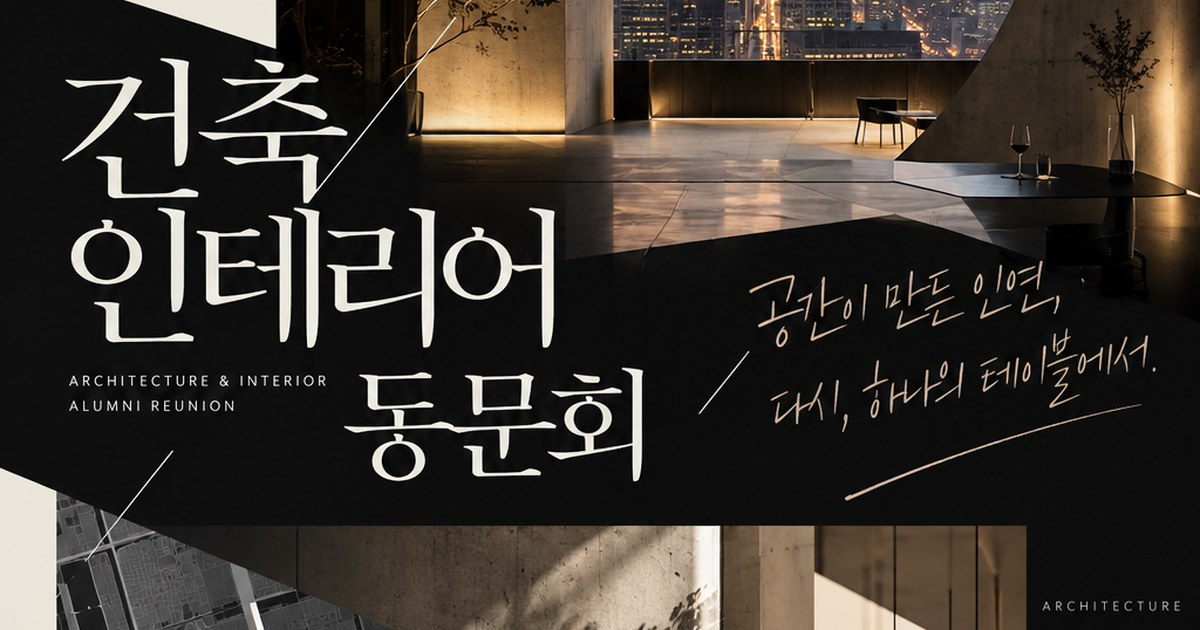
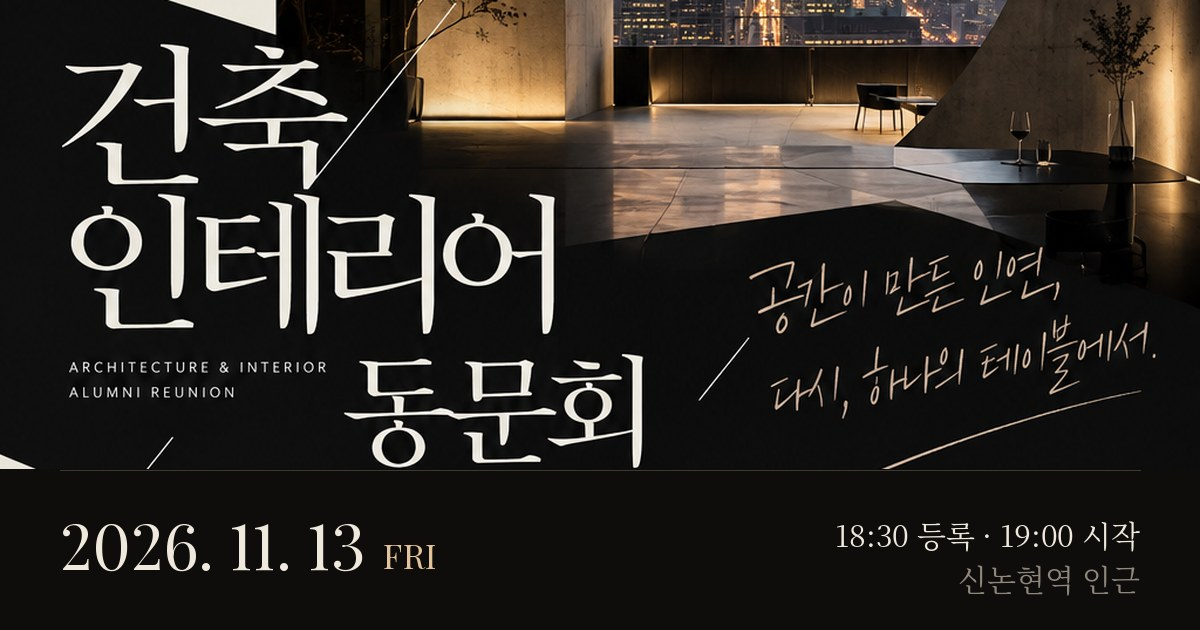
공유 미리보기를 2026.11.13(금) 기준으로 갱신 — 날짜 넣은 썸네일, 새 공유 주소
Claude-Session: https://claude.ai/code/session_01E4Fc9KigC2AJrgYdfE3XVL

diff --git a/reunion/index.html b/reunion/index.html
@@ -7,10 +7,13 @@
 <meta name="description" content="다시, 공간에서 연결되는 우리. 건축 인테리어 동문회 — 11월 13일(금) 18:30, 신논현역 인근.">
 <meta name="theme-color" content="#0e0d0b">
 <meta property="og:type" content="website">
-<meta property="og:title" content="건축 인테리어 동문회 · 11.13 FRI">
-<meta property="og:description" content="공간이 만든 인연, 다시, 하나의 테이블에서. 18:30 등록 · 19:00 시작 · 신논현역 인근">
-<meta property="og:image" content="https://m48a2c999-svg.github.io/reunion/img/og.jpg?v=2">
-<meta property="og:url" content="https://m48a2c999-svg.github.io/reunion/">
+<meta property="og:title" content="건축 인테리어 동문회 · 2026.11.13 (금)">
+<meta property="og:description" content="2026년 11월 13일 금요일 18:30 등록 · 19:00 시작 · 신논현역 인근. 공간이 만든 인연, 다시, 하나의 테이블에서.">
+<meta property="og:image" content="https://m48a2c999-svg.github.io/reunion/img/og-20261113.jpg">
+<meta property="og:url" content="https://m48a2c999-svg.github.io/reunion/?d=20261113">
+<link rel="canonical" href="https://m48a2c999-svg.github.io/reunion/?d=20261113">
+<meta property="og:image:width" content="1200">
+<meta property="og:image:height" content="630">
 <meta name="twitter:card" content="summary_large_image">
 <link rel="icon" href="img/icon.png">
 <link rel="apple-touch-icon" href="img/icon.png">
@@ -341,7 +344,7 @@ footer .fine{margin-top:56px;display:flex;flex-wrap:wrap;justify-content:space-b
 <script>
 (function(){
   var EVENT={title:"건축 인테리어 동문회",start:"20261113T183000",end:"20261113T220000",tz:"Asia/Seoul",loc:"신논현역 인근 (상세 장소 추후 공지)",desc:"18:30 등록 및 네트워킹 / 19:00 동문회 시작"};
-  var url=location.href.split('#')[0];
+  var url="https://m48a2c999-svg.github.io/reunion/?d=20261113";
   var toast=document.getElementById('toast'),tt;
   function say(m){toast.textContent=m;toast.classList.add('show');clearTimeout(tt);tt=setTimeout(function(){toast.classList.remove('show')},2200)}
 
@@ -379,7 +382,7 @@ footer .fine{margin-top:56px;display:flex;flex-wrap:wrap;justify-content:space-b
   }
   document.getElementById('copy').addEventListener('click',copy);
   document.getElementById('share').addEventListener('click',function(){
-    if(navigator.share){navigator.share({title:"건축 인테리어 동문회 · 11.13",text:"공간이 만든 인연, 다시, 하나의 테이블에서. 11/13(금) 18:30 신논현역 인근",url:url}).catch(function(){})}
+    if(navigator.share){navigator.share({title:"건축 인테리어 동문회 · 2026.11.13 (금)",text:"공간이 만든 인연, 다시, 하나의 테이블에서. 11/13(금) 18:30 신논현역 인근",url:url}).catch(function(){})}
     else copy();
   });
 })();
